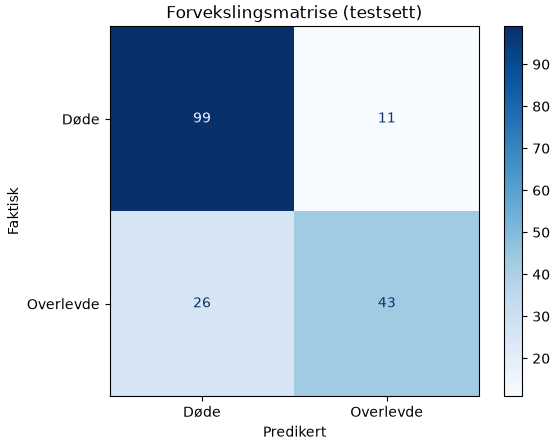
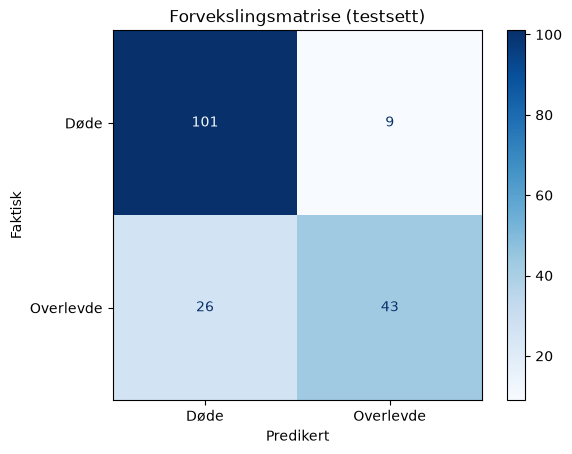
Konklusjon&Diskusjon

diff --git a/Sections/5. Resultater.tex b/Sections/5. Resultater.tex
@@ -66,20 +66,88 @@ $\textit{Age} = 47.493 - 6.402*\textit{Pclass}-2.554*FamilySize-2.913*\textit{Se
 \end{minipage}
 
 \subsection{2. Klassifisering}
-Etter oppdeling av datasettet, består treningssettet av 534 rader, valideringsettet av 178 rader og testsettet av 179 observasjoner. Rader som mangler alder har blitt fylt inn ved hjelp av OLS modellen fra forrige resultat. 
+Etter oppdeling av datasettet, består treningssettet av 534 rader, valideringsettet av 178 rader og testsettet av 179 rader. For modellen med imputering er rader som mangler alder har blitt estimert inn ved hjelp av OLS fra forrige del. For analysen uten imputering fjernes radene hvor alder mangler.
 
 \begin{table}[htbp]
+  \centering
+  \begin{minipage}[c]{0.48\textwidth}
     \centering
-    \caption{Valideringsresultater for KNN modellene.}
-    \label{tab:regresjon_alder}
-    \begin{tabular}{lccc}
-        \hline
-        \textbf{Modell} & \textbf{Beste \textit{k}} & \textbf{Feilrate} \\ \hline
-        \textbf{Modell 1:} \textit{Sex} + \textit{Age} & 29 & 0.2078 \\ 
-        \textbf{Modell 2:} + \textit{Pclass} & 9 & 0.1741 \\ 
-        \textbf{Modell 3:} + \textit{FamilySize} & 17 & 0.1741 \\ \hline % Samme feilrate på denne og modell 2???
+    \caption{Valideringsresultater for KNN-modellene med imputering ved OLS.}
+    \label{tab:knn_validering_1}
+    \begin{tabular}{lcc}
+      \hline
+      \textbf{Modell} & \textbf{Beste \textit{k}} & \textbf{Feilrate} \\ \hline
+      \textbf{Modell 1:} \textit{Sex} + \textit{Age} & 29 & 0.2078 \\ 
+      \textbf{Modell 2:} + \textit{Pclass} & 11 & 0.1629 \\ 
+      \textbf{Modell 3:} + \textit{FamilySize} & 19 & 0.1741 \\ \hline % Samme feilrate på denne og modell 2???
     \end{tabular}
+  \end{minipage}
+  \hfill
+  \begin{minipage}[c]{0.48\textwidth}
+    \centering
+    \caption{Valideringsresultater for KNN-modellene uten imputering.}
+    \label{tab:knn_validering_2}
+    \begin{tabular}{lcc}
+      \hline
+      \textbf{Modell} & \textbf{Beste \textit{k}} & \textbf{Feilrate} \\ \hline
+      \textbf{Modell 1:} \textit{Sex} + \textit{Age} & 29 & 0.2253 \\ 
+      \textbf{Modell 2:} + \textit{Pclass} & 103 & 0.1901 \\ 
+      \textbf{Modell 3:} + \textit{FamilySize} & 95 & 0.1830 \\ \hline
+    \end{tabular}
+  \end{minipage}
 \end{table}
 
-Baseline feilraten på valideringssettet ligger på 38.2\%. Samtlige modeller oppnår dermed en lavere feilrate. % Hva er baseline for no???
-Av disse modellene, gir modell 2 best resultat med en feilrate på 17.41\% og $k = 9$. Ved å fjerne passasjerens tilhørende klasse, øker feilraten til 20.78\%. Dersom vi legge til familiestørrelsen forblir feilraten det samme. Familiestørrelsen forbedrer altså ikke modellen.
+Baseline feilraten ligger på $\approx38\%$ med imputering og $\approx40$ uten imputering. Alle modellene får dermed en feilrate som er lavere enn baseline.
+
+For modellene med imputering, oppnår modell 2 (\textit{Sex} + \textit{Age} + \textit{Pclass}) best resultat med en feilrate på $16.29\%$ og $k = 11$. Ved å fjerne klassen passasjerene tilhører (\textit{Pclass}) øker feilraten til $20.78\%$, og dersom familiestørrelsen (\textit{FamilySize}) inkluderes øker feilraten til $17.41\%$. Familiestørrelsen gir ingen forbedring ovenfor modell 2.
+
+\noindent
+\begin{minipage}[c]{0.48\textwidth}
+    \centering
+    \includegraphics[width=1\linewidth]
+    {Images/valideringssett_knn+ols.png}
+    \captionof{figure}{Validering av modellene med imputering ved OLS}
+    \label{fig:Valideringssett_ols}
+\end{minipage}
+\hfill
+\begin{minipage}[c]{0.48\textwidth}
+    \centering
+    \includegraphics[width=1\linewidth]
+    {Images/valideringssett_knn.png}
+    \captionof{figure}{Validering av modellene uten imputering}
+    \label{fig:Valideringssett}
+\end{minipage}
+
+For modellene hvor radene som mangler alder er fjernet gir modell 3 det beste resultatet, med en feilrate på $18.3\%$ og $k=95$. I motsetning til det andre resultatet, så gav familiestørrelsen en liten forbedring ovenfor modell 2.
+
+Etter valg av modeller basert på resultatene fra validering evalueres de basert på testsettet. For modellen hvor imputering er brukt har modell 2 blitt benyttet, mens modell 3 har blitt benyttet for datasettet hvor radene som manglet alder er fjernet.
+
+Med imputering fra multippel lineær regresjon:
+
+$Nøyaktighet = \frac{TP+TN}{Observasjoner} = \frac{43+101}{179}\approx0.8045$
+
+Rader hvor alder mangler er fjernet:
+
+$Nøyaktighet = \frac{TP+TN}{Observasjoner} = \frac{42+72}{143}\approx0.7972$
+
+Ved imputering av alder får modellen en nøyaktighet på $80.45\%$. Blant passasjerene som omkom, ble $91.8\%$ klassifisert riktig. 101 av 110 omkomne passasjerer ble korrekt klassifisert, mens de resterende 9 ble feilklassifisert som omkomne. Blant de overlevende ble $62.3\%$ klassifisert riktig, mens de resterende 23 ble feilklassifisert som overlevende.
+
+Ved å kutte ut rader som mangler alder oppnår modellen en nøyaktighet på $79.72\%$. $88.9\%$ av passasjerene som omkom ble klassifisert riktig. Blant de som overlevde ble $67.7\%$ klassifisert riktig.
+
+\noindent
+\begin{minipage}[c]{0.48\textwidth}
+    \centering
+    \includegraphics[width=1\linewidth]
+    {Images/forvekslingsmatrise_knn+ols.png}
+    \captionof{figure}{Validering av modellene med imputering ved OLS}
+    \label{fig:Forvekslingsmatrise med imputering ved OLS}
+
+\end{minipage}
+\hfill
+\begin{minipage}[c]{0.48\textwidth}
+    \centering
+    \includegraphics[width=1\linewidth]
+    {Images/forvekslingsmatrise_knn.png}
+    \captionof{figure}{Validering av modellene uten imputering}
+    \label{fig:Forvekslingsmatise uten imputering ved OLS}
+\end{minipage}

diff --git a/Sections/2. Introduksjon.tex b/Sections/2. Introduksjon.tex
@@ -1,14 +1,14 @@
 \section{Introduksjon (10 poeng)}\label{introduksjon-10-poeng}
 Undergangen av Titanic i 1912 er en av verdens mest kjente maritime tragedier. Dette prosjekt tar for seg datasettet \textit{Titanic-Dataset.csv}, hentet fra kaggle \parencite[]{titanic_dataset} som dokumenterer informasjon knyttet til 891 passasjerer ombord på skipet.
 
-Prosjektet vårt er delt i to deler. Den første delen benytter multippel lineær regresjon for å undersøke om alder kan estimeres på passasjerklasse \textit{(Pclass)}, familiestørrelse \textit{(FamilySize)} og kjønn \textit{(Sex\_)}. Bakgrunnen for at dette er valgt er at en stor andel av radene mangler registrert alder (rundt ~20\%). Den andre delen tar for seg KNN klassifisering for å undersøke hvor godt overlevese kan predikeres basert på kjønn \textit{(Sex\_)}, alder \textit{(Age)}, passasjerklasse \textit{(Pclass)} og familiestørrelse \textit{(FamilySize)}.
+Prosjektet vårt er delt i to deler. Den første delen benytter multippel lineær regresjon for å undersøke om alder kan estimeres basert på passasjerklasse \textit{(Pclass)}, familiestørrelse \textit{(FamilySize)} og kjønn \textit{(Sex\_)}. Bakgrunnen for at dette er valgt er at en stor andel av radene mangler registrert alder (rundt ~20\%). Den andre delen tar for seg KNN klassifisering for å undersøke hvor godt overlevese kan klassifiseres basert på kjønn \textit{(Sex\_)}, alder \textit{(Age)}, passasjerklasse \textit{(Pclass)} og familiestørrelse \textit{(FamilySize)}. Den estimerte alderen fra regresjonsmodellen benyttes for å fylle ut manglende aldersvariabler for denne delen.
  
 Problemstillingen i prosjektet er todelt:
 \begin{itemize}
-    \item \textbf{Multippel lineær regresjon (alder)}: Datasettet mangler verdier knyttet til enkelte variabler som alder (\textit{Age}). Vi ønsker derfor å undersøke i hvilken grad multippel lineær regresjon kan brukes til å predikere alder basert på forhåndsbestemte variabler.
-    \item \textbf{Klassifisering, k-nærmeste-nabo}: Hovedmålet er å undersøke hvor godt passasjerenes overlevelse (\textit{Survived}) kan klassifiseres ved hjelp av KNN. Her ønsker vi å benytte den estimerte alderen fra regresjonsmodellen som en av prediktorene. Vi ønsker å finne hvilke faktorer som spilte en forskjell på liv og død, samt identifisere en modell som kan gi et realistisk bilde av sjansen for overlevelse.
+    \item \textbf{Multippel lineær regresjon (alder)}: Datasettet mangler verdier knyttet til enkelte variabler som alder (\textit{Age}). Vi ønsker derfor å undersøke i hvilken grad multippel lineær regresjon kan brukes til å predikere alder basert på passasjerklasse, familiestørrelse og kjønn.
+    \item \textbf{Klassifisering, k-nærmeste-nabo}: Vi ønsker å se hvor godt passasjerenes overlevelse (\textit{Survived}) kan klassifiseres ved hjelp av KNN. Det vil også undersøkes hvordan valg av forklaringsvariabler og håndtering av manglende aldersverdier kan påvirke resultatene.
 \end{itemize}
 
-Formålet med prosjektet er å oppnå en bredere forståelse for hvordan sosiodemografiske faktorer kan påvirke sjansen for å overleve under en krisesituasjon. Under prosjektet ønsker vi å finne ut om: I hvor stor grad kan multippel lineær regresjon forklare/estimere alderen til personer med hjelp av flere uavhengige variabler som beskrevet/nevnt over og hvilke faktorer utgjør størst forskjell for sannsynligheten for overlevelse.
+Formålet med prosjektet er å oppnå en bredere forståelse for hvordan sosiodemografiske faktorer kan forklare ulikhetene i overlevelse under en krisesituasjon. Gjennom prosjektet ønsker vi å finne ut: I hvor stor grad kan multippel lineær regresjon forklare/estimere alderen til personer med hjelp av flere uavhengige variabler som beskrevet/nevnt over og hvilke faktorer utgjør størst forskjell for sannsynligheten for overlevelse.
 
 Målgruppen for prosjektet er individer som ønsker praktisk og forståelig innsikt i dataanalyse og klassifisering. I stedet for å finne modellen med størst mulig treffprosent, så ønsker vi å finne en metode som leverer gode resultater samtidig som den er enkel å forklare og tolke.

diff --git a/Sections/4. Metoder.tex b/Sections/4. Metoder.tex
@@ -21,13 +21,25 @@ Vi sammenligner tre modeller:
     \item \textbf{Modell 3:} \textit{Sex\_}, \textit{Age}, \textit{Pclass} og \textit{FamilySize}
 \end{itemize}
 
+For å undersøke hvor stor forskjell manglende alder i enkelte rader gjøres analysen på to forskjellige måter. Ved den første fjernes radene hvor alder manger, mens ved den andre erstattes manglende alder ved hjelp av multippel lineær regresjon fra forrige del av oppgaven. Resultatet fra metodene sammenlignes for å undersøke hvordan manglende aldersverdi kan ha effekt på klassifiseringen.
+
 Datasettet deles i tre delsett, hvor 60\% brukes til trening, 20\% til validering og resterende 20\% brukes til testing. For å sikre at andelen overlevende og omkomne fordeles noenlunde likt mellom delsettene, benyttes stratifisering. random\_state=1 sikrer at delingen er reproduserbar. Treningsettet blir brukt for å tilpasse modellene, valideringssettet benyttes for å velge \textit{k} og modell, mens testsettet benyttes etter modellvalget for å vurdere modellen.
 
-Modellene vurderes basert på deres feilrate. For den utvalgte modellen, benyttes en forvekslingsmatrise for å skille mellom true positive, false positive, true false og false false prediksjoner.
+Modellene vurderes basert på deres feilrate. For den utvalgte modellen, benyttes en forvekslingsmatrise for å skille mellom true positive, false positive, true false og false false klassifiseringer.
 
 \textbf{Datadeling} \\
 Datasettet er blitt delt i tre delsett: 60\% til trening, 20\% til validering og 20\% til test. Stratify har blitt brukt basert på overlevelse for å sikre lik fordeling i alle settene.
 
+\textbf{Evaluering og valg av modell} \\
+De utvalgte modellene evalueres basert på feilrate. Feilraten bereges ved å dele antall feilklassifiseringer på det totale antall observasjoner.
+
+$Feilrate = \frac{Antall feilklassifiseringer}{Antall Observasjoner}$
+
+Det undersøkes for flere verdier av k, i rommet 1-197 med intervall på 2, noe som gir et utvalg av oddetallsverdier for antall naboer. For hver modell velges k verdien som gir lavest feilrate. Som grunnlag for å sammeligne beregnes baseline feilrate. Baseline feilrate representerer raten til en modell som alltid klassifiserer den vanligste klassen i datasettet. Etter at modell og k veri er valgt, evalueres modellen videre basert på testsettet. Forvekslingsmatrise benyttes for å vurdere resultatet. Matrisen viser antall true positive, true false, false positive og false false klassifiseringer.
+
+Nøyaktigheten beregnes på følgende vis:
+
+$Nøyaktighet = \frac{TP+TN}{TP+TN+FP+FN}$
 
 
 \paragraph{Begrensninger ved metodene}
@@ -35,4 +47,5 @@ Datasettet er blitt delt i tre delsett: 60\% til trening, 20\% til validering og
     \item Fjerning av rader som har manglende data, kan potensielt forårsake skjevheter i datasettet som modellene evalueres etter.
     \item OLS har ingen øvre eller nedre grense for predikerte verdier. Grunnet dette så kan det forekomme aldersverdier som ikke er mulige, som negativ alder dersom en passasjer har en kombinasjon av flere prediktorer (eks. høyt antall pårørende).
     \item En betydelig svakhet ligger i hvordan datasettet opprinnelig er strukturert. Variabelen \textit{Parch} slår sammen passasjerer som reiser med foreldre og barn. En passasjer som reiser med foreldre er som regel er et barn, noe som kan forvente å trekke ned alder. På den andre siden kan en person som reiser med barn forventes å ha en høyere alder. Når \textit{Parch} slås sammen med \textit{SibSp} til \textit{FamilySize}, fanger den opp at en passasjer reiser i en gruppe, men evnen til å skille mellom aldersgrupper svekkes.
+    \item En ytterlig svakhet ved datasettet er at manglende alder er skjevt fordelt i forhold til overlevelse. Blant de 177 passasjerene som manglet alder, omkom 125 av disse. Imputering av alder ved OLS kan dermed gi mindre presise estimer for alder hos disse.
 \end{itemize}

diff --git a/Sections/6. Diskusjon og konklusjon.tex b/Sections/6. Diskusjon og konklusjon.tex
@@ -1,5 +1,21 @@
 \section{Diskusjon og konklusjon (5 poeng)}\label{diskusjon-og-konklusjon-5-poeng}
 
-Oppsummer de viktigste funnene fra prosjektet deres. Hva fant du ut, og
-hvilke var de viktigste innsiktene du fikk gjennom analysen? Fokuser på
-de mest relevante resultatene fra modelleringen og analysen.
+\textbf{Diskusjon} \\
+Resultatet til prosjektet viser at multippel lineær regresjon kan benyttes til å anslå manglende alder for passasjerer basert på variablene \textit{Pclass}, \textit{FamilySize} og \textit{Sex}. Modellen forklarer dog kun 22.1\% av variasjonen i alder. Dette kan antyde at variablene har en sammenheng med alderen, men at også andre faktorer spiller inn. Modellen egner seg derfor bedre som et hjelpemiddel, enn for å gi presise estimater.
+
+Resultatet fra KNN viser at bare \textit{Sex} og \textit{Age} alene gir et greit utgangspunkt for å klassifisere overlevelse for en passasjer, men at \textit{Pclass} forbedrer resultatet noe. Med imputering resulterte modell 2 med det beste resultate, med en feilrate på 16.29\%. Ved å kutte ut radene som manglet alder istedenfor imputering ga modell 3 det beste resultatet med en feilrate på 18.3\%. Familiestørrelse kan forbedre klassifiseringen, men avhenger av hvordan manglende aldersverdier håndteres.
+
+Resultatene fra testene viser imputering resulterte med en nøyaktighet på 80.45\%, mens ved å kutte ut radene som manglet alder ga en nøyaktighet på 79.72\%. Forskjellen er ikke av betydelig grad. Grunnet dette, så er det ikke grunnlag nok til å konkludere med at imputering gir en bedre modell for klassifisering. 
+
+Forvekslingsmatrisen viser at modellene er generelt mer nøyaktige på klassifisering av passasjerer som omkom enn passasjerer som overlevde. Selv om modellene gav rundt 80\% nøyaktighet, så er det en stor del av de overlevende passasjerene som blir klassifisert feil.
+
+Observasjonene for manglende alder viser seg også å være skjeifordelt i forhold til overlevelse. Blant de 177 passasjerene som manglet alder, omkom 125 av disse. Dette fremstår som en betydelig andel og kan ha påvirket resultatene, både ved estimering av alder og ved sammenligning av modellene. 
+
+\textbf{Konklusjon} \\
+Prosjektet viser multippel lineær regresjon er mulig å bruke for å estimere manglende alder, men en lav determinasjonskoeffisient resulterer i at forklaringsevnen er begrenset. KNN viser at \textit{Sex}, \textit{Age} og \textit{Pclass} gir et grunnlag for å klassifisere passasjerers overlevelse. Blant modellene, oppnådde den beste en feilrate på 16.29\% på valideringssettet med imputering. Modellene hvor rader som manglet alder var kuttet ut nådde en feilrate på 18.3\%.
+
+Testsettene for imputering av avkutting ga en nøyaktighet på rundt 80\%. Fremgangsmåten kan gi relativt gode resultater for klassifisering, men forskjellen er liten.
+
+Forklaringsvariabler og håndtering av manglende variabler har tydelige påvirkninger på resultater. Resultatet viser også at nøyaktigheten for en modell alene, sier ikke hvor godt en modell klassifiserer for alle grupper. Den samlede nøyaktigheten er god, men mye bedre til å klassifisere passasjerer som omkom enn passasjerer som overlevde.
+
+
